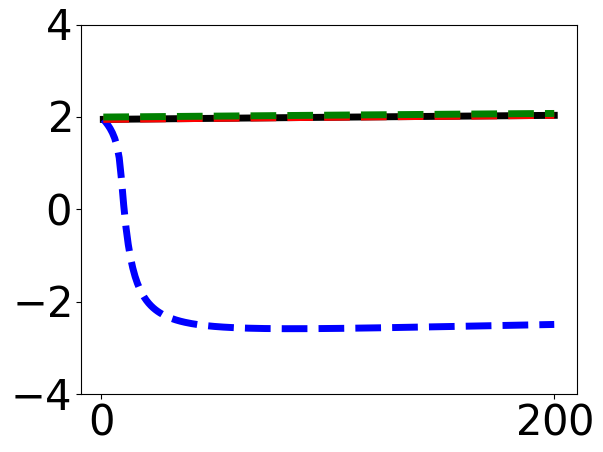
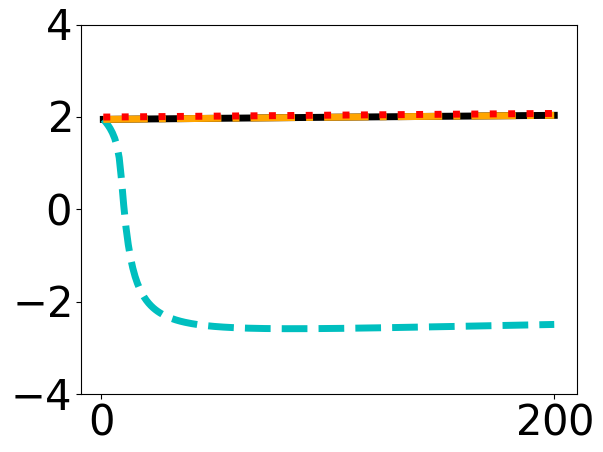
Changed the multiple curves to be bw friendly

Changed region(s): [[0.1493, 0.2168, 0.9254, 0.6504], [0.2388, 0.6504, 0.9254, 0.7434]]

diff --git a/Simulations/Constrained_Finite/Plotting.py b/Simulations/Constrained_Finite/Plotting.py
@@ -306,11 +306,19 @@ MinCurvature = CurvLogLList[np.argmin(CurvLogdRList)]
 # Change in R with changing L
 fig = plt.figure()
 ax = fig.add_subplot(111)
+
+plt.plot(NList,np.log10(dRList), '-k',linewidth=5)
+plt.plot(NList,np.log10(I_dRList),'--c',linewidth=5)
+plt.plot(NList,np.log10(I_TOT_dRList),linestyle='dashdot',color='orange',linewidth=5)
+plt.plot(NList,np.log10(P_dRList),':r',linewidth=5)
+
+
+"""
 plt.plot(NList,np.log10(dRList), '-k',linewidth=5)
 plt.plot(NList,np.log10(I_dRList),'--b',linewidth=5)
 plt.plot(NList,np.log10(I_TOT_dRList),'--r',linewidth=5)
 plt.plot(NList,np.log10(P_dRList),'--g',linewidth=5)
-
+"""
 #Formatting
 plt.xticks([0,max(NList-NList%10)])
 

diff --git a/Simulations/Constrained_Infinite/Plotting.py b/Simulations/Constrained_Infinite/Plotting.py
@@ -301,10 +301,12 @@ MinCurvature = CurvLogLList[np.argmin(CurvLogdRList)]
 # Change in R with changing L
 fig = plt.figure()
 ax = fig.add_subplot(111)
+
+
 plt.plot(NList,np.log10(dRList), '-k',linewidth=5)
-plt.plot(NList,np.log10(I_dRList),'--b',linewidth=5)
-plt.plot(NList,np.log10(I_TOT_dRList),'--r',linewidth=5)
-plt.plot(NList,np.log10(P_dRList),'--g',linewidth=5)
+plt.plot(NList,np.log10(I_dRList),'--c',linewidth=5)
+plt.plot(NList,np.log10(I_TOT_dRList),linestyle='dashdot',color='orange',linewidth=5)
+plt.plot(NList,np.log10(P_dRList),':r',linewidth=5)
 
 #Formatting
 plt.xticks([0,max(NList)])
